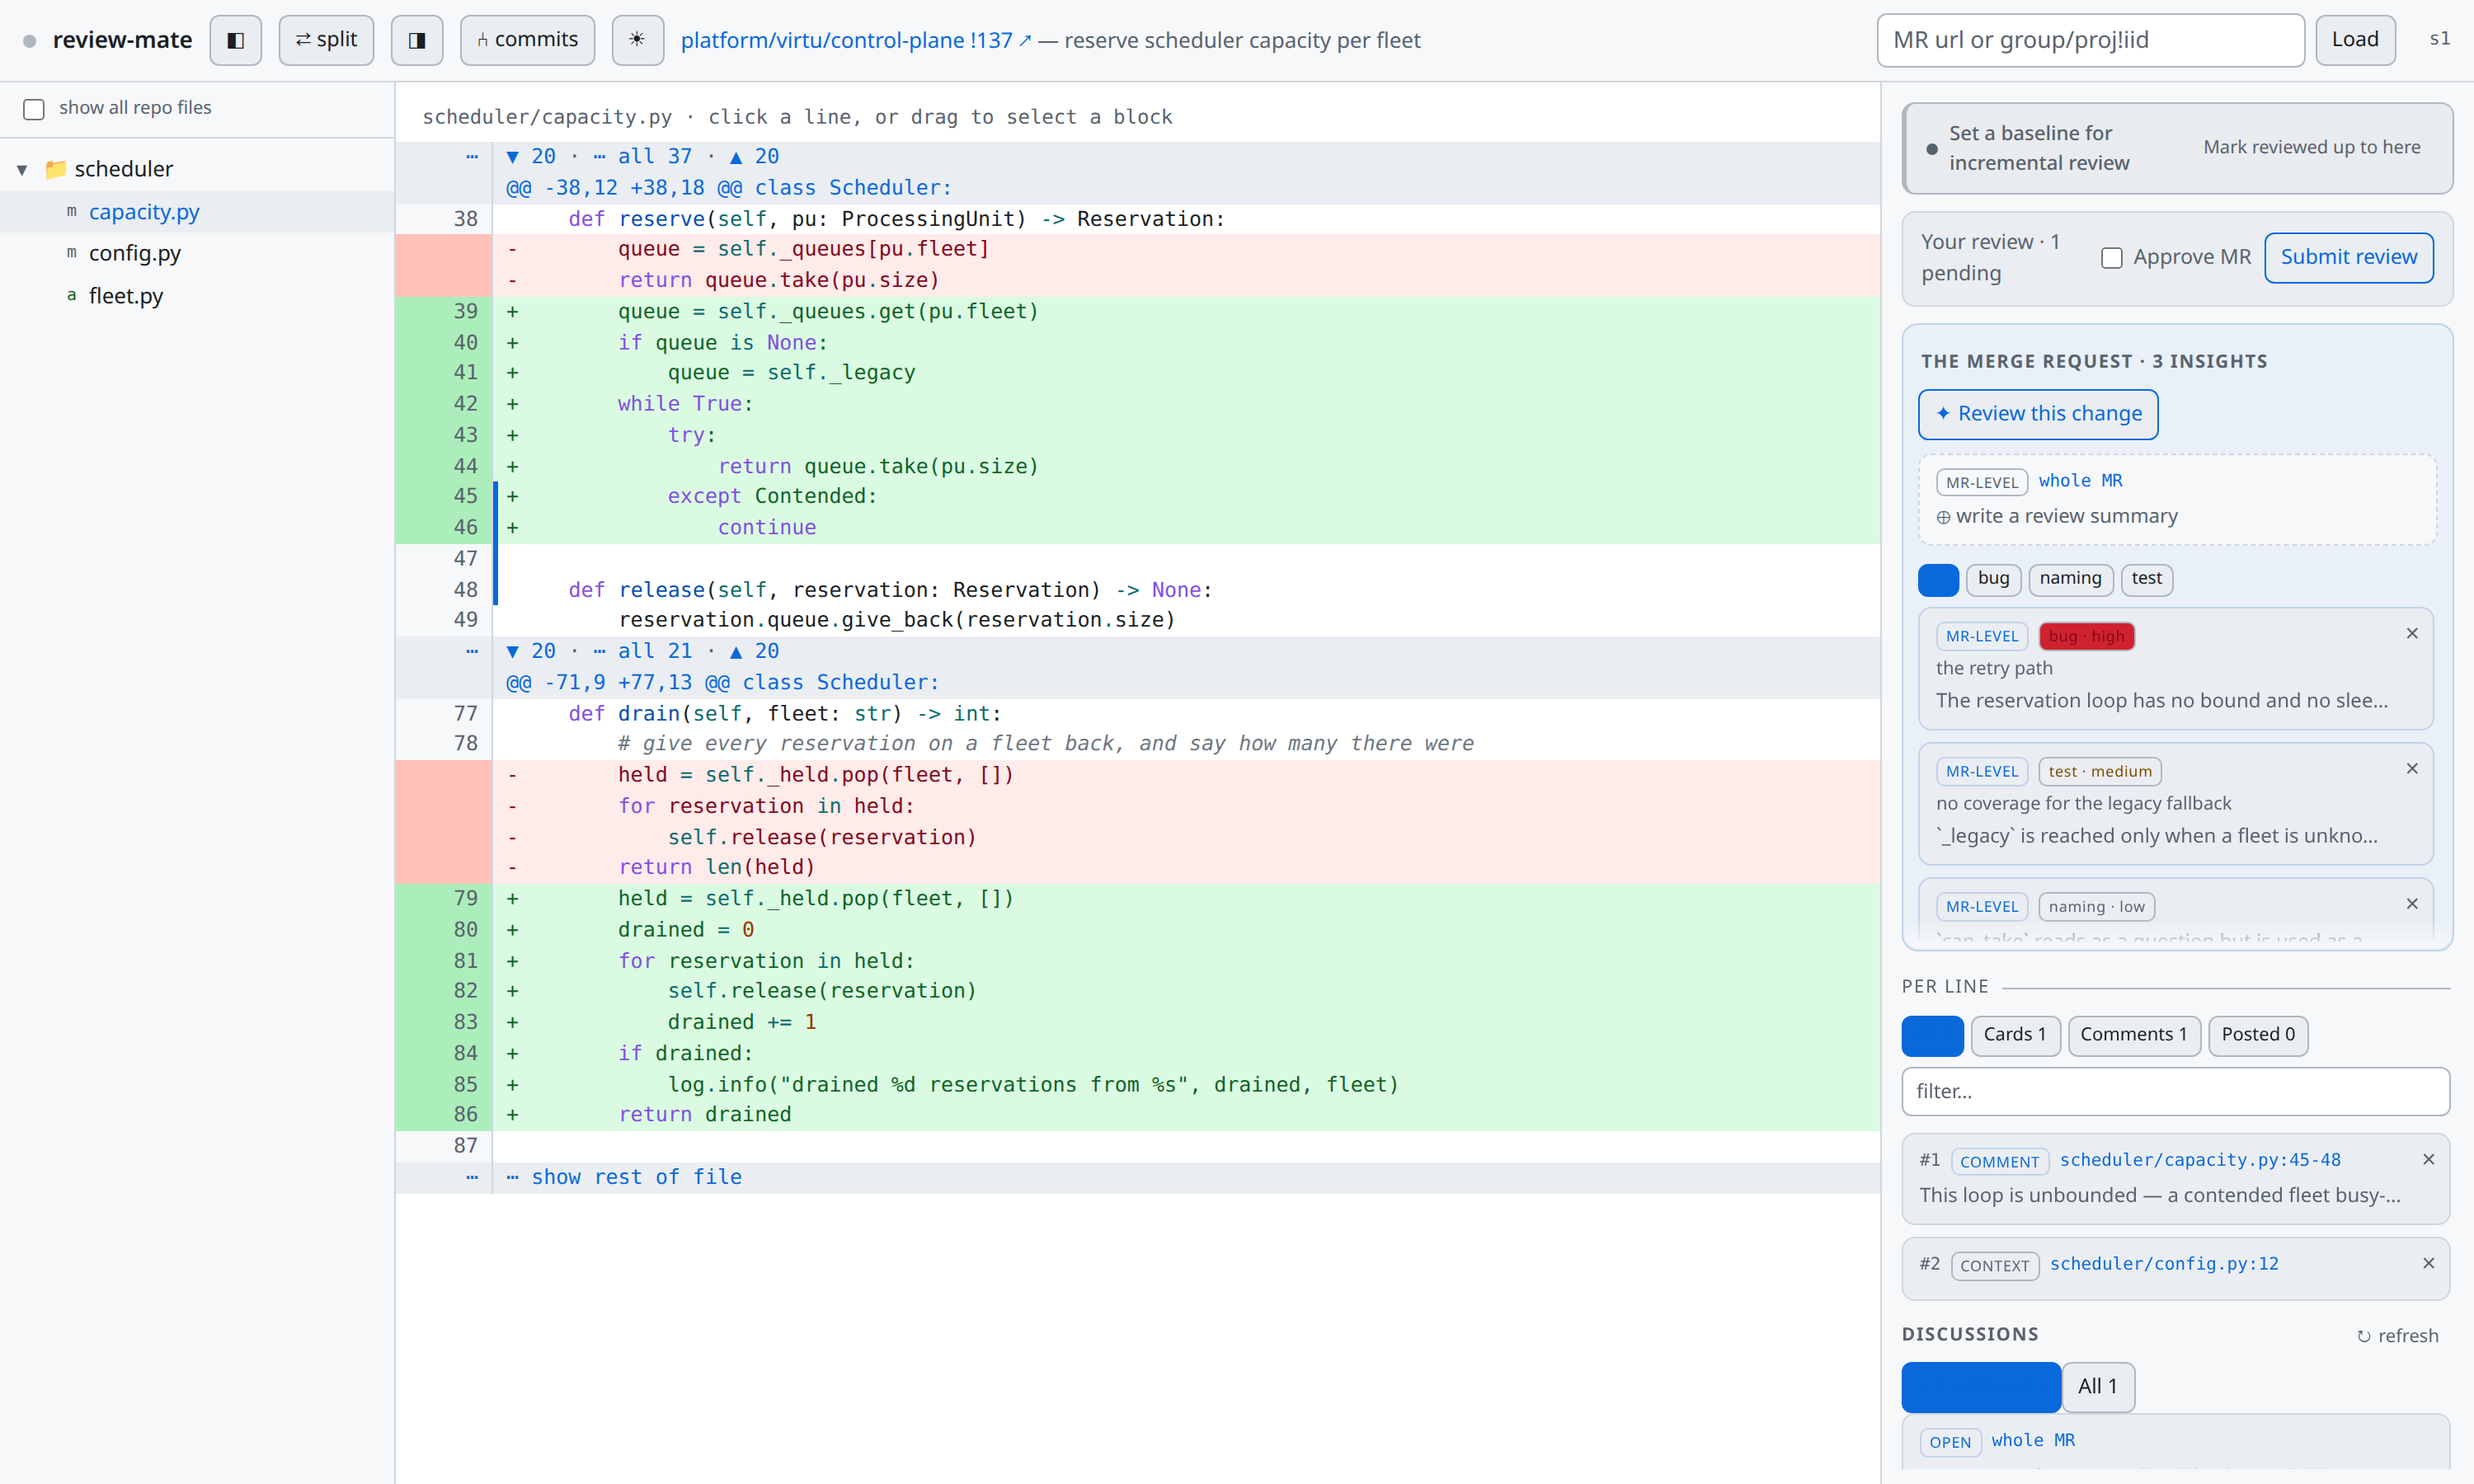
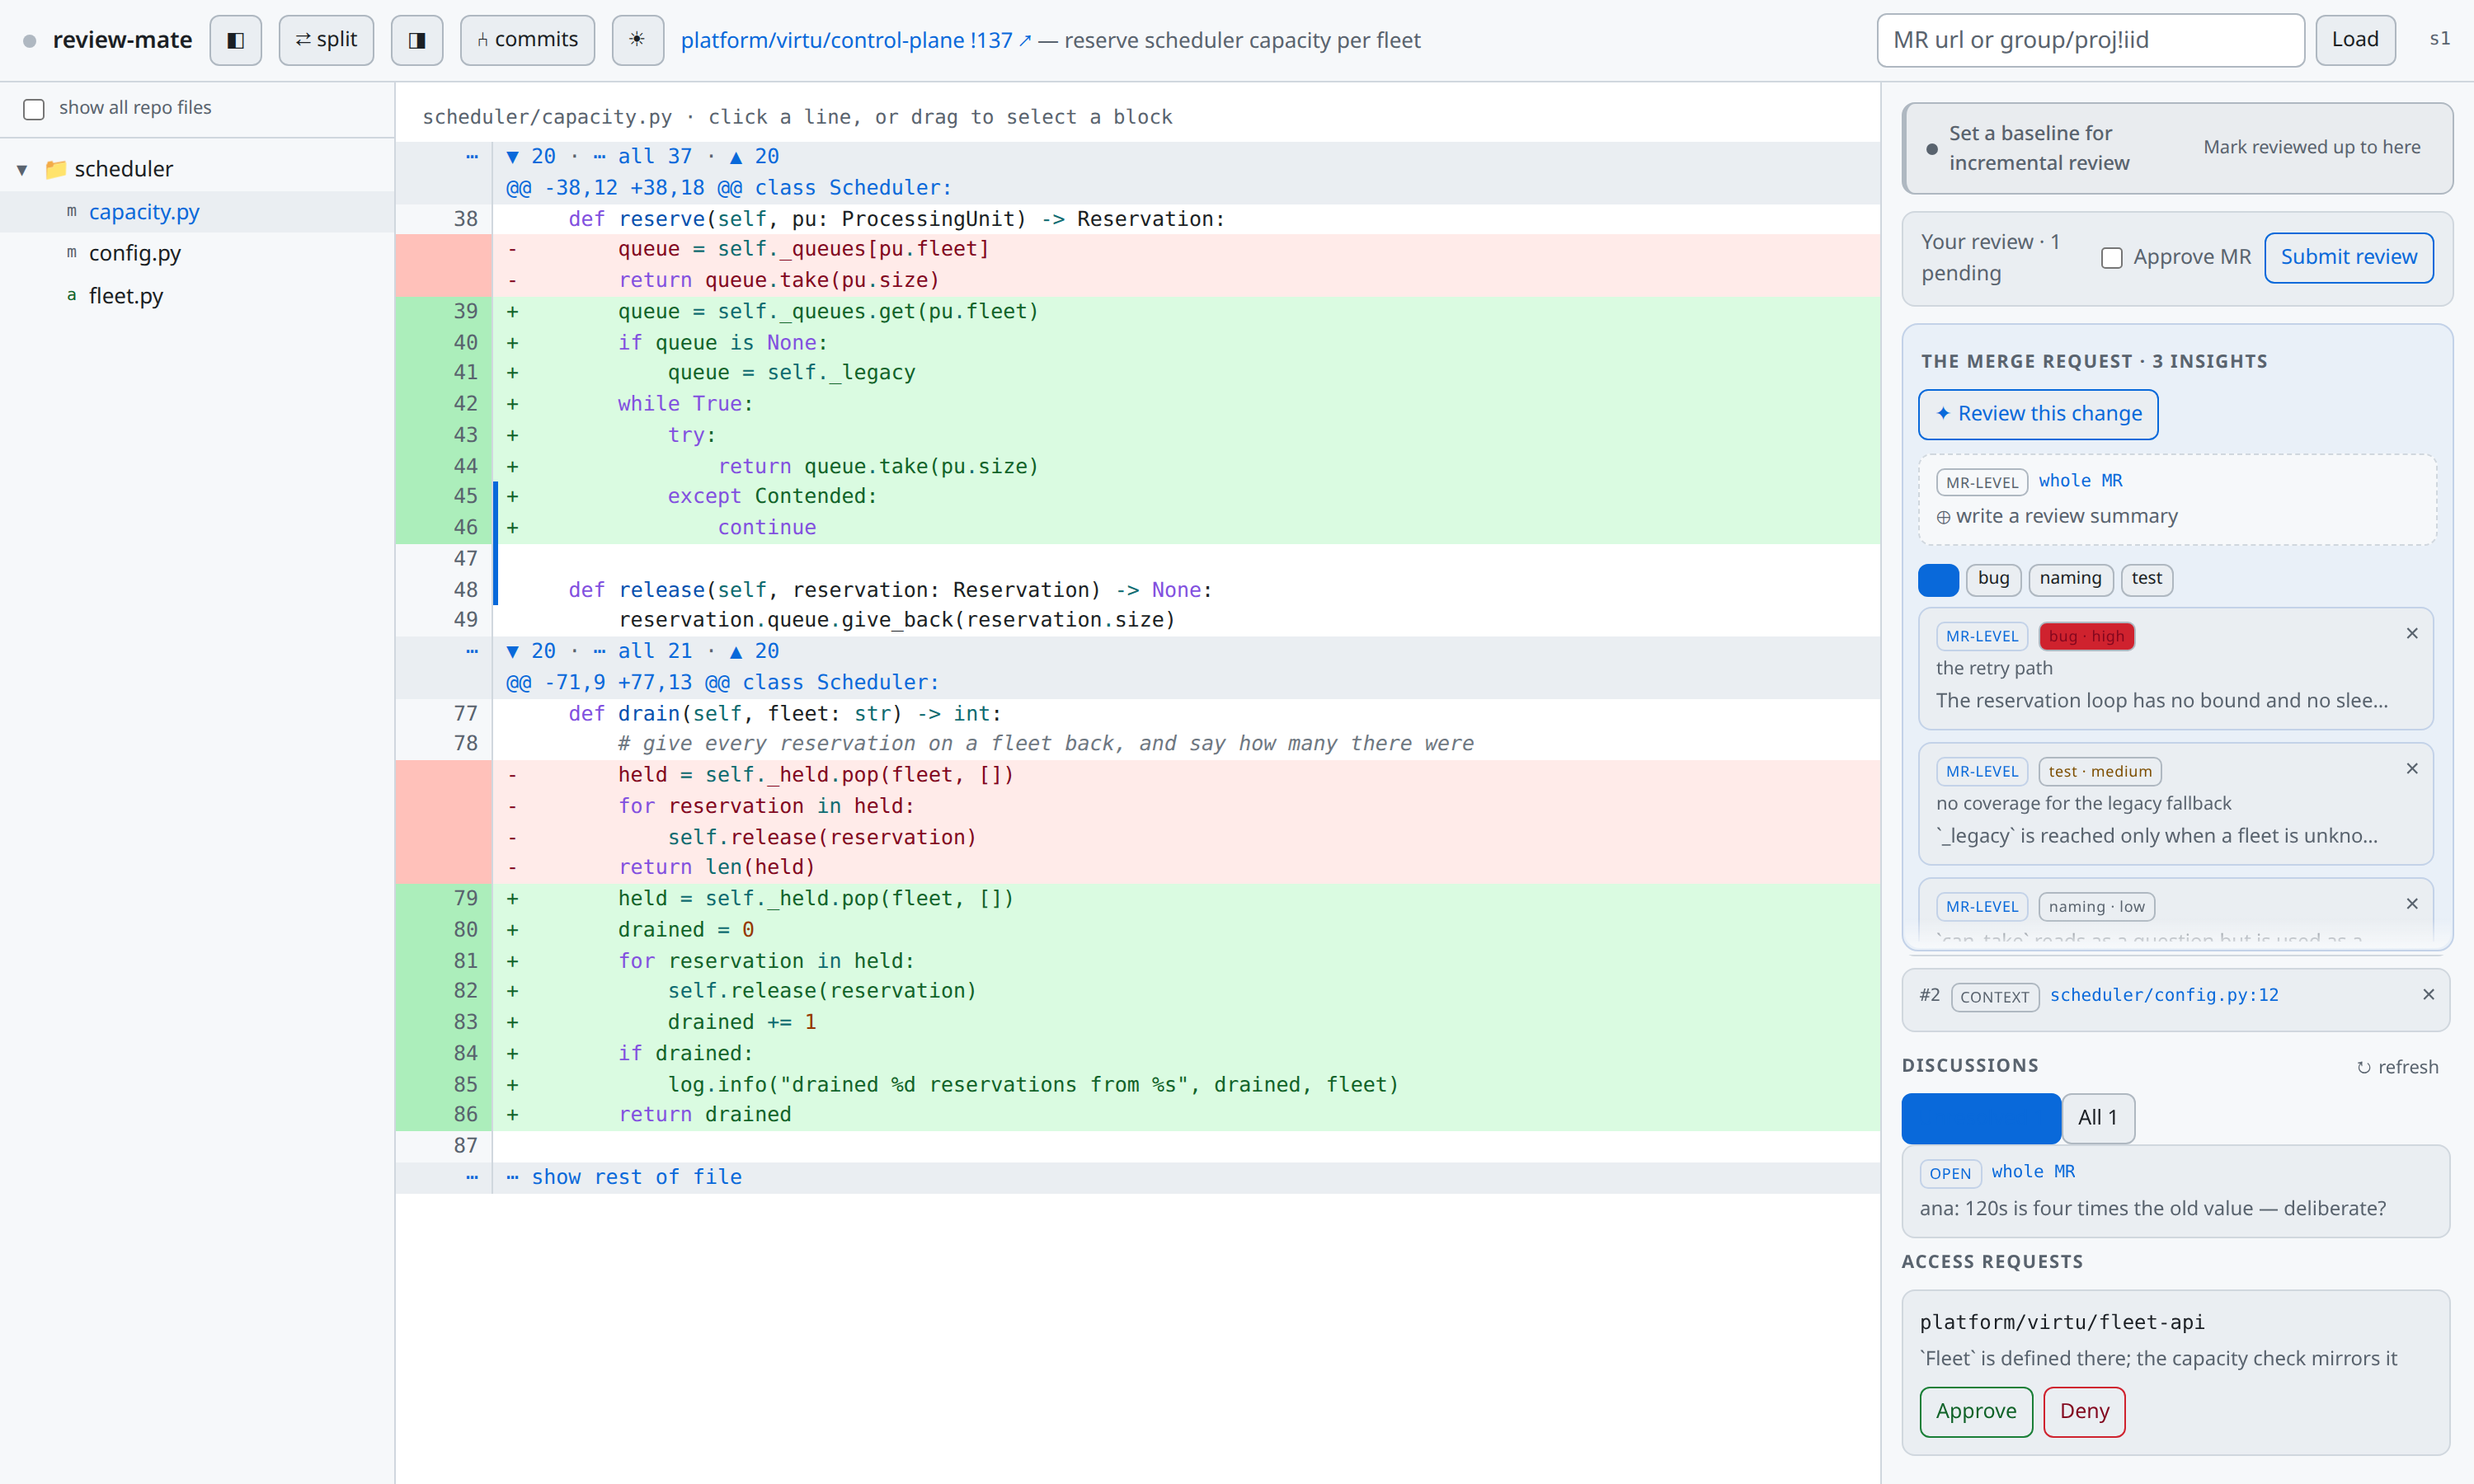
fix(docs): make a screenshot prove it shows what its caption claims
`consent.png` was a second copy of the diff. The shot scrolled `.rail`, which is
not the element that scrolls, so the access request stayed below the fold — and
a picture was written anyway, captioned "Claude asking to read another
repository". A screenshot that does not show its subject is worse than none: a
reader trusts it more than the prose beside it.

Every shot now declares a selector that has to be on screen when the picture is
taken, and the run fails loudly if it is not. It caught that one, and it will
catch the next scroll, click or wait that quietly stops landing where it meant
to — which hand-checking eight images will not, because they all look plausible
at a glance.

The other seven were already right. The side-by-side shot failed the new check
on its first run because the selector I gave it was wrong, not the shot: a split
row carries `gap` cells, which only the split renderer emits, so that is what it
asserts now — the mode, rather than the toggle that requests it.

Changed region(s): [[0.744, 0.6533, 0.992, 0.9956], [0.961, 0.8711, 0.992, 0.9022]]

diff --git a/tools/screenshots.py b/tools/screenshots.py
@@ -39,9 +39,15 @@ VIEWPORT = {"width": 1500, "height": 900}
 SHOTS: list = []
 
 
-def shot(name: str, description: str):
+def shot(name: str, description: str, shows: str):
+    """Register a shot. `shows` is a selector that must be visible when the picture is taken.
+
+    Without it a mis-aimed shot is silent: the page renders *something*, the file is written, and
+    the caption claims a screen the picture does not contain. That happened — a shot meant to show
+    a consent prompt scrolled the wrong element and produced a second copy of the diff.
+    """
     def register(fn):
-        SHOTS.append((name, description, fn))
+        SHOTS.append((name, description, shows, fn))
         return fn
     return register
 
@@ -186,7 +192,7 @@ def showcase(session_id: str = "s1") -> SessionState:
 
 # --- the shots -----------------------------------------------------------------
 
-@shot("hub", "the landing page: what is open, and what is waiting on you")
+@shot("hub", "the landing page: what is open, and what is waiting on you", shows=".land")
 def _hub(page, base, stage):
     stage(showcase())
     page.goto(base)
@@ -194,13 +200,15 @@ def _hub(page, base, stage):
     page.wait_for_timeout(400)
 
 
-@shot("diff", "reading a change: the file tree, the diff, and the rail beside it")
+@shot("diff", "reading a change: the file tree, the diff, and the rail beside it",
+      shows="table.hunk .add")
 def _diff(page, base, stage):
     stage(showcase())
     _open(page, base)
 
 
-@shot("side-by-side", "the same hunk with both versions on one row")
+# a `gap` cell is produced only by the split renderer, so it proves the mode rather than the toggle
+@shot("side-by-side", "the same hunk with both versions on one row", shows="table.hunk td.gap")
 def _side_by_side(page, base, stage):
     stage(showcase())
     _open(page, base)
@@ -208,7 +216,8 @@ def _side_by_side(page, base, stage):
     page.wait_for_timeout(300)
 
 
-@shot("claude-channel", "what Claude found on a line, and the conversation under it")
+@shot("claude-channel", "what Claude found on a line, and the conversation under it",
+      shows="#detail .card")
 def _claude(page, base, stage):
     stage(showcase())
     _open(page, base)
@@ -217,7 +226,8 @@ def _claude(page, base, stage):
     page.wait_for_timeout(300)
 
 
-@shot("review-channel", "the comment you are preparing, which nobody else sees yet")
+@shot("review-channel", "the comment you are preparing, which nobody else sees yet",
+      shows="#detail textarea.draftbox")
 def _review(page, base, stage):
     stage(showcase())
     _open(page, base)
@@ -226,7 +236,8 @@ def _review(page, base, stage):
     page.wait_for_timeout(300)
 
 
-@shot("insights", "Claude's own read of the change, worst first")
+@shot("insights", "Claude's own read of the change, worst first",
+      shows=".railpin .railinsights .chip.crit")
 def _insights(page, base, stage):
     stage(showcase())
     _open(page, base)
@@ -234,15 +245,17 @@ def _insights(page, base, stage):
     page.wait_for_timeout(300)
 
 
-@shot("consent", "Claude asking to read another repository, and nothing read until you answer")
+@shot("consent", "Claude asking to read another repository, and nothing read until you answer",
+      shows=".rail .req button")
 def _consent(page, base, stage):
     stage(showcase())
     _open(page, base)
-    page.locator(".rail").evaluate("el => el.scrollTo(0, el.scrollHeight)")
+    page.locator(".rail .req").first.scroll_into_view_if_needed()
     page.wait_for_timeout(300)
 
 
-@shot("self-review", "reviewing your own branch: no merge request, and fixes landing as you comment")
+@shot("self-review", "reviewing your own branch: no merge request, and fixes landing as you comment",
+      shows=".chip.fixed")
 def _self_review(page, base, stage):
     stage(branch_review())
     _open(page, base)
@@ -310,10 +323,14 @@ def main() -> int:
     written = []
     with sync_playwright() as pw:
         browser = pw.chromium.launch()
-        for name, description, take in SHOTS:
+        for name, description, shows, take in SHOTS:
             page = browser.new_page(viewport=VIEWPORT, device_scale_factor=2)
             try:
                 take(page, base, stage)
+                if not page.locator(shows).first.is_visible():
+                    raise SystemExit(
+                        f"{name}: nothing matching {shows!r} is on screen, so the picture would "
+                        f"not show what it claims — fix the shot rather than the caption")
                 target = IMAGES / f"{name}.png"
                 page.screenshot(path=str(target))
                 written.append((name, description, target.stat().st_size))
